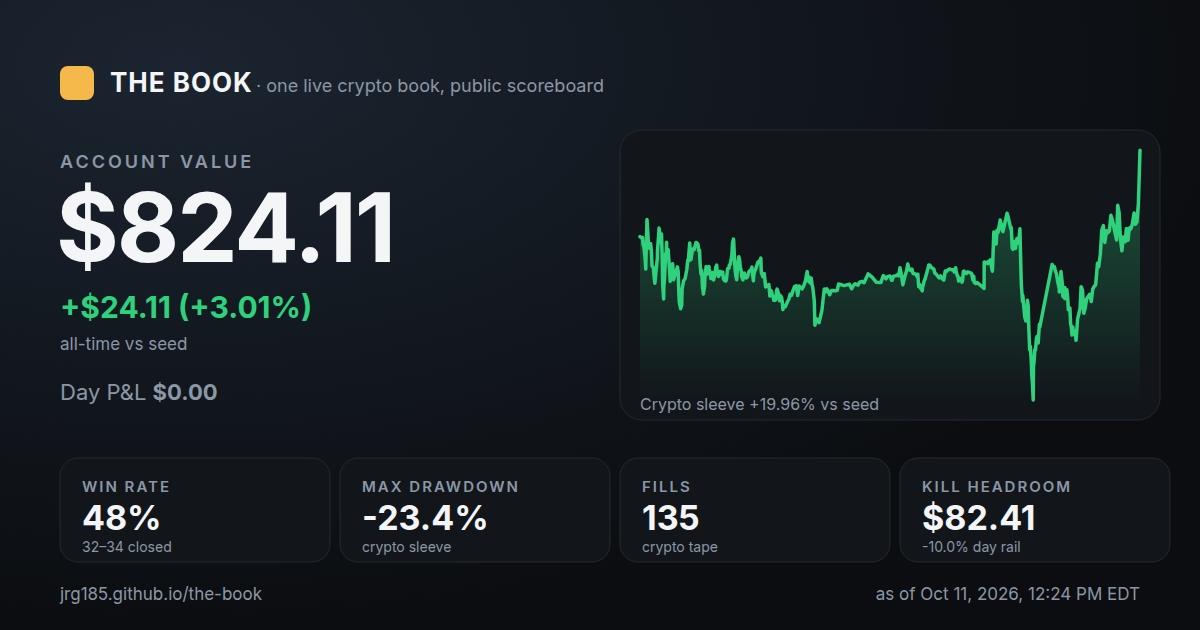
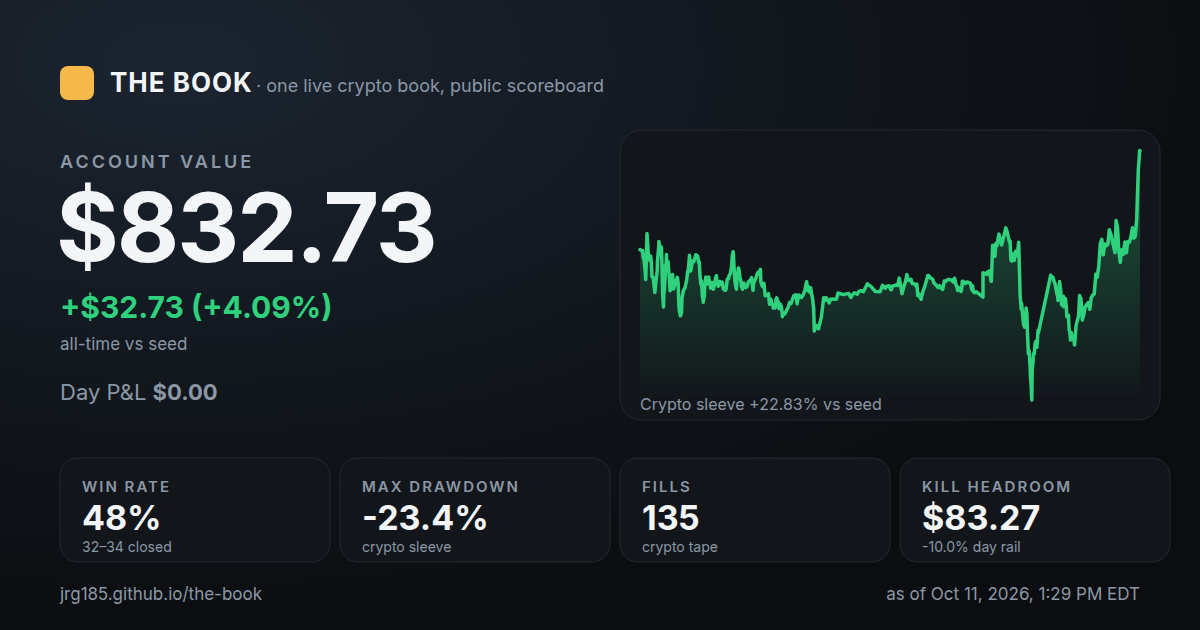
Keep 800 out of og.js and re-render the card from merged data
The seed scan treats a bare 800 as a seed literal; the OG headline uses
weight 900 instead.

diff --git a/og.js b/og.js
@@ -138,11 +138,11 @@ export function buildOgSvg(snap) {
   <rect width="${W}" height="${H}" fill="url(#glow)"/>
   <g transform="translate(60,66)">
     <rect width="34" height="34" rx="8" fill="${C.accent}"/>
-    <text x="50" y="26" font-size="26" font-weight="800" fill="${C.ink}" letter-spacing="1">THE BOOK</text>
+    <text x="50" y="26" font-size="26" font-weight="900" fill="${C.ink}" letter-spacing="1">THE BOOK</text>
     <text x="196" y="26" font-size="18" fill="${C.dim}">· one live crypto book, public scoreboard</text>
   </g>
   <text x="60" y="168" font-size="18" letter-spacing="3" fill="${C.dim}" font-weight="600">ACCOUNT VALUE</text>
-  <text x="56" y="262" font-size="96" font-weight="800" fill="${C.ink}" letter-spacing="-2">${xmlEscape(formatUsd(s.balance))}</text>
+  <text x="56" y="262" font-size="96" font-weight="900" fill="${C.ink}" letter-spacing="-2">${xmlEscape(formatUsd(s.balance))}</text>
   <text x="60" y="318" font-size="30" font-weight="700" fill="${pnlColor}">${xmlEscape(allTime)}</text>
   <text x="60" y="350" font-size="17" fill="${C.dim}">all-time vs seed</text>
   <text x="60" y="400" font-size="22" fill="${C.dim}">Day P&amp;L <tspan fill="${dayColor}" font-weight="700">${xmlEscape(formatUsd(s.dayPnl, { signed: true }))}</tspan></text>
